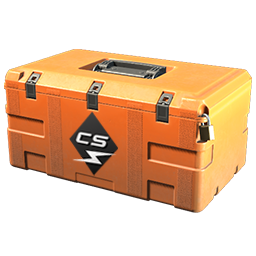
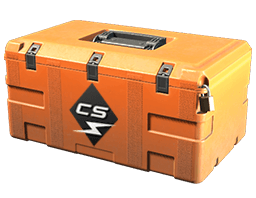
Add basic functionality and some cases

diff --git a/src/main.ts b/src/main.ts
@@ -1,1 +1,106 @@
-;
+const prevButton = document.getElementById("prevButton") as HTMLButtonElement
+const nextButton = document.getElementById("nextButton") as HTMLButtonElement
+const marketText = document.getElementById("marketPrice") as HTMLParagraphElement
+const caseImage = document.getElementById("caseImage") as HTMLImageElement;
+const caseName = document.getElementById("caseName") as HTMLParagraphElement;
+const buyButton = document.getElementById("buyButton") as HTMLButtonElement;
+const spentAmountText = document.getElementById("spent-amount") as HTMLSpanElement;
+const gainAmountText = document.getElementById("net-gain-amount") as HTMLSpanElement;
+let marketPrice: number = 0.00
+let caseLoaded: boolean = false
+let totalSpent: number = 0.00
+let totalGain: number = 0.00
+let onCase: number = 0
+
+let cachedPrices: Record<string, string> = {
+  //"Kilowatt Case" : "3.14" - Example
+}
+
+const caseNames: string[] = [
+  "Kilowatt Case",
+  "Revolution Case",
+  "Fracture Case",
+  "Operation Bravo Case",
+]
+
+const cases: Record<string, string> = {
+  "Kilowatt Case" : "/assets/kilowatt.png",
+  "Revolution Case" : "/assets/revolution.png",
+  "Fracture Case" : "/assets/fracture.png",
+  "Operation Bravo Case" : "/assets/operation bravo.png",
+}
+
+async function fetchPrice(caseType: string): Promise<void> {
+  caseLoaded = false
+  if (cachedPrices[caseType]) {
+    console.log(cachedPrices[caseType])
+    marketPrice = parseFloat(cachedPrices[caseType])
+    marketText.innerText = "Market price: £" + String(marketPrice)
+    caseLoaded = true
+    return
+  }
+  marketText.innerText = "Market price: Loading..."
+  var validCase: string[] = caseType.split(" ")
+  var caseUrl: string = ""
+  for (let e of validCase) {
+    caseUrl += e + "%20"
+  }
+  console.log(caseUrl)
+  const fetched = await fetch(`https://api.flik.host/steam_market.php?item=${caseUrl}`)
+  
+  const data = await fetched.json();
+
+  if (!data || data.ok) {
+    console.log(data)
+    return;
+  }
+
+  marketPrice = data.sell_req
+  cachedPrices[caseType] = String(marketPrice)
+  marketText.innerText = "Market price: £" + String(marketPrice)
+  caseLoaded = true
+} 
+
+nextButton.addEventListener("click", async () => {
+  if (! caseLoaded) {
+    return
+  }
+  onCase += 1
+  if (onCase > caseNames.length - 1) {
+    onCase = 0
+  }
+  caseImage.src = cases[caseNames[onCase]]
+  caseName.innerText = caseNames[onCase]
+  await fetchPrice(caseNames[onCase])
+
+})
+
+prevButton.addEventListener("click", async () => {
+  if (! caseLoaded) {
+    return
+  }
+  onCase -= 1
+  if (onCase <= -1) {
+    onCase = caseNames.length - 1
+  }
+  caseImage.src = cases[caseNames[onCase]]
+  caseName.innerText = caseNames[onCase]
+  await fetchPrice(caseNames[onCase])
+
+})
+
+buyButton.addEventListener("click", () => {
+  if (!caseLoaded) {
+    return
+  }
+  totalSpent -= marketPrice
+  totalGain -= marketPrice
+  spentAmountText.innerHTML = "£" + String(totalSpent.toFixed(2))
+  gainAmountText.innerHTML = "£" + String(totalGain.toFixed(2))
+})
+
+document.addEventListener("DOMContentLoaded", async () => {
+  await fetchPrice("Kilowatt Case")
+});
+
+(window as any).fetchPrice = fetchPrice

diff --git a/index.html b/index.html
@@ -6,23 +6,23 @@
   <link href="/src/style.css" rel="stylesheet">
 </head>
 <body>
-  <div class="absolute z-10 bg-gray-600 h-screen w-screen">
+  <div class="hidden top-0 left-0 z-10 bg-gray-600 h-screen w-screen">
 
   </div>
   <div class="flex flex-col mt-14">
-    <p class="text-center text-2xl">KILOWATT CASE</p>
-    <p class="text-center">Market price: £0.00</p>
+    <p id="caseName" class="text-center text-2xl">KILOWATT CASE</p>
+    <p id="marketPrice" class="text-center">Market price: £0.00</p>
     <div class="flex justify-center items-center">
-      <button class="text-white text-2xl px-4 hover:text-gray-300 mr-4 cursor-pointer">
+      <button id="prevButton" class="text-white text-2xl px-4 hover:text-gray-300 mr-4 cursor-pointer">
         &lt;
       </button>
-      <img src="/assets/kilowatt.png" class="max-h-50" alt="CS2 case">
-      <button class="text-white text-2xl px-4 ml-4 hover:text-gray-300 cursor-pointer">
+      <img id="caseImage" src="/assets/kilowatt.png" class="max-h-64 max-w-64" alt="CS2 case">
+      <button id="nextButton" class="text-white text-2xl px-4 ml-4 hover:text-gray-300 cursor-pointer">
         &gt;
       </button>
     </div>
     <div class="flex justify-center">
-      <button class="text-xl text-black mt-4 bg-green-600 hover:bg-green-700 px-8 py-3 rounded-sm cursor-pointer">
+      <button id="buyButton" class="text-xl text-black mt-4 bg-green-600 hover:bg-green-700 px-8 py-3 rounded-sm cursor-pointer">
         BUY
       </button>
     </div>
